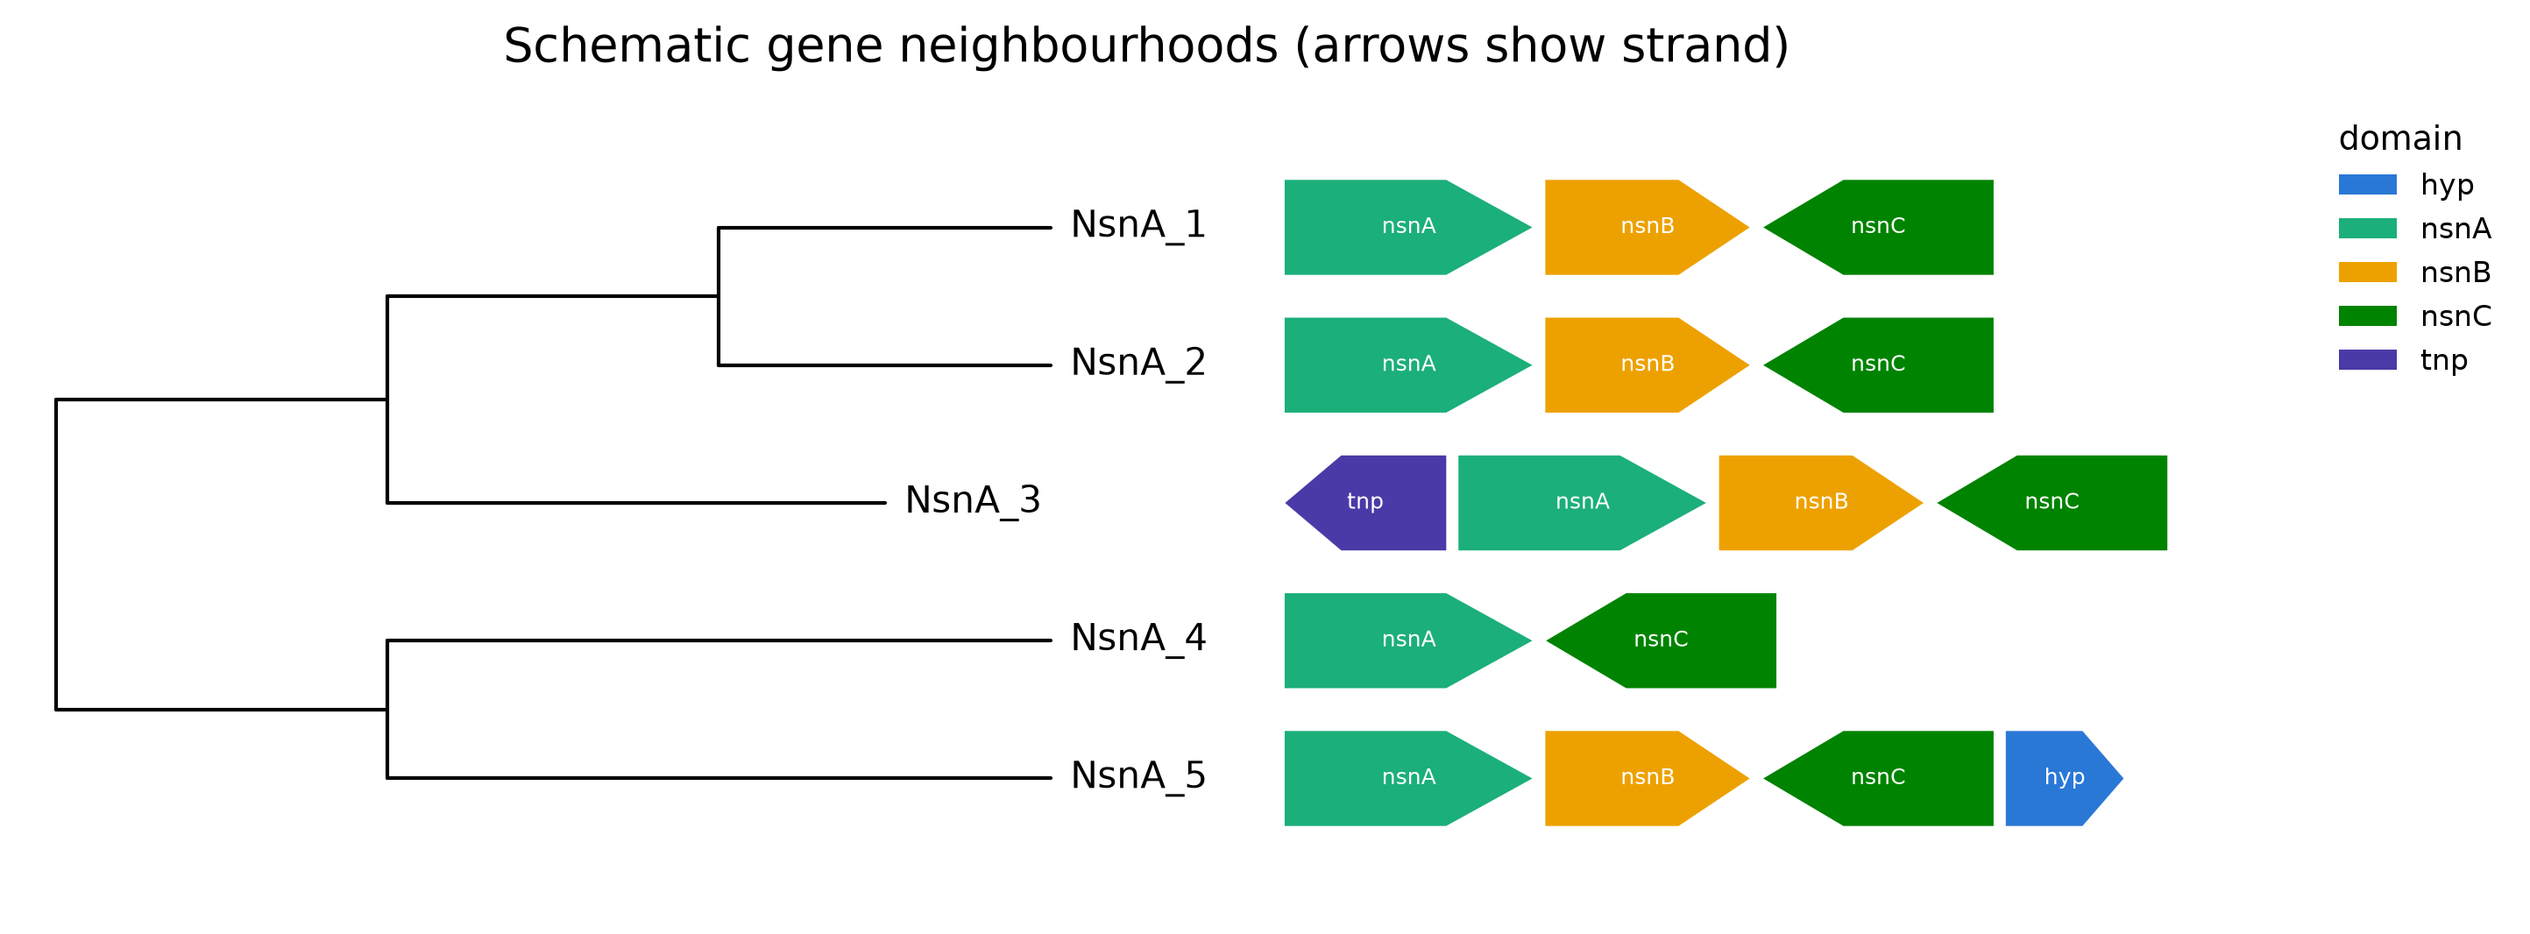
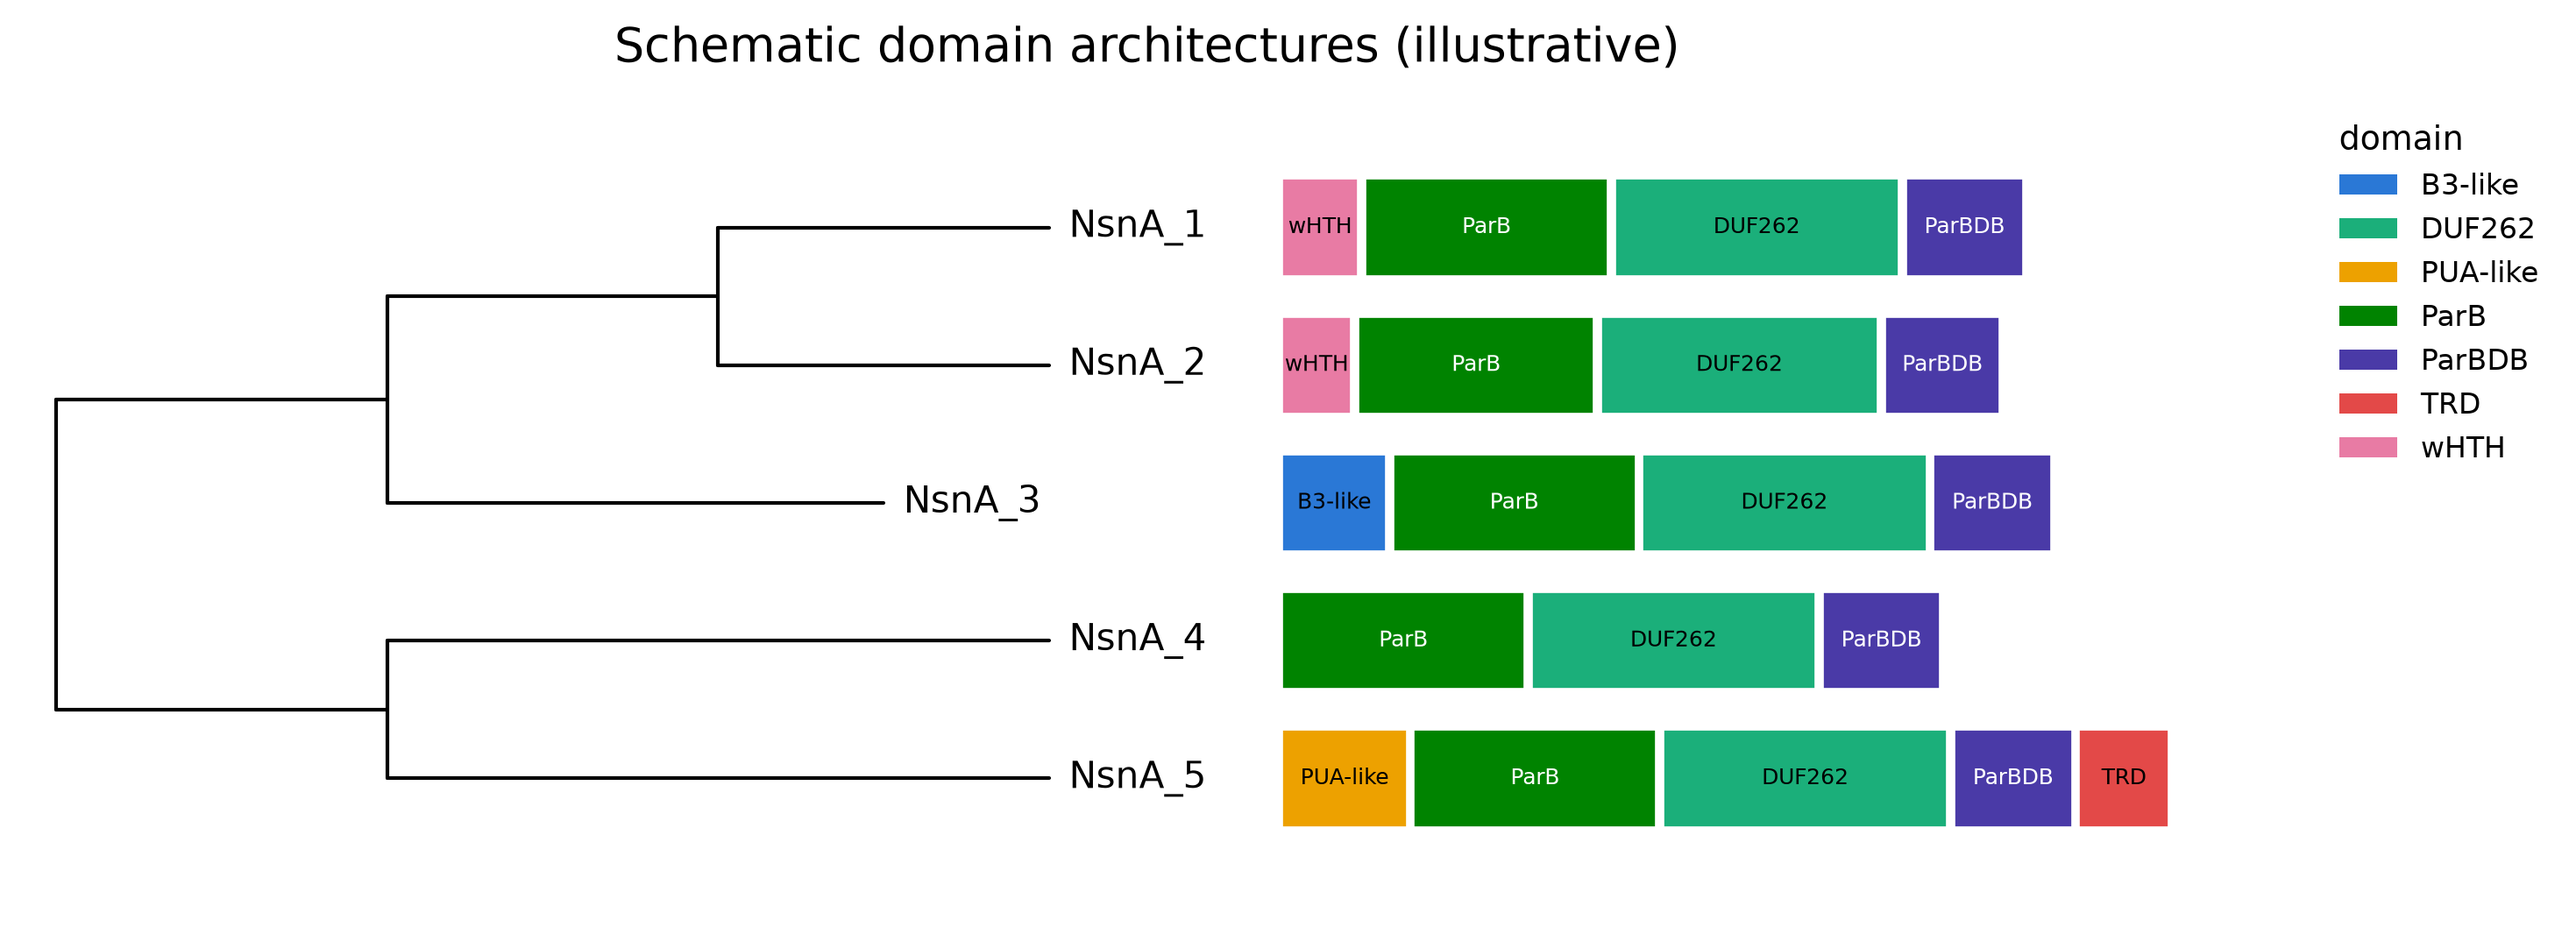
Check every figure for legibility, not just for overlap
Widened the audit from "do two labels collide" to the whole list the user
actually judges a figure by: stacking, distortion, clipping, font size,
stroke weight, and contrast. Ran it across every layout at two tree sizes,
every layer type, every non-tree figure type, and every figure the demos
save. Five more real defects came out.

A dendrogram's leaves run along x, so its width has to follow the tip count.
It was getting the tall, narrow default a rectangular tree wants, which
crushed 106 names into eight inches: 151 collisions, now none.

A ring's name goes in the fan opening, but the first and last sectors each
hang half a sector into that opening, and on a tree with few tips the
sectors swallow it whole -- so the name printed across the ring it named.
It is now drawn only when the free wedge can hold it, and left to the legend
otherwise, which already carries the column name. The threshold is measured
rather than derived, since what has to fit is the name's height in angle and
that falls as the radius grows: it lands on data up to about two degrees of
free wedge and is clear from two and a half. Verified over tip counts 10 to
106 and sizes 6 to 14 pt.

A name inside a coloured block was white whatever the block, which measures
2.2:1 against the paler half of the palette -- below the 3:1 floor for large
text. It now picks black or white by the block's luminance. The first
attempt still measured 3.9:1 on a mid blue, because it compared white
[…]

diff --git a/tests/test_figure_quality.py b/tests/test_figure_quality.py
@@ -1,13 +1,18 @@
 """Do the figures come out publishable?
 
-Not "does it render without raising" -- these check the things a reviewer sees
-first: names printed on top of each other, and text too small to survive the
-journal's downscaling. Overlap is measured off real glyph ink and off
-*oriented* boxes, because a circular tree's labels are rotated and
-matplotlib's window extent for rotated text is the axis-aligned envelope,
-which for a 45-degree label is nearly twice the ink in each direction --
-comparing those envelopes reports collisions between labels that are nowhere
-near each other.
+Not "does it render without raising" -- these check what a reviewer sees
+first: names on top of each other, names on top of the data, text too small
+to survive the journal's downscaling, a circle drawn as an oval, and strokes
+too thin to print.
+
+Two measurement details do most of the work. Overlap is taken off real glyph
+ink rather than the layout box, and off *oriented* boxes -- a circular tree's
+labels are rotated, and matplotlib's window extent for rotated text is the
+axis-aligned envelope, nearly twice the ink in each direction for a
+45-degree label, so comparing envelopes reports collisions between labels
+that are nowhere near each other. And text sitting on a filled shape is not
+by itself a fault, since a clade highlight is drawn behind its labels on
+purpose; what matters is the luminance contrast between the two.
 """
 import math
 
@@ -226,6 +231,109 @@ def test_a_ring_name_is_not_printed_over_the_ring(big):
     on_data = text_on_fill(fig)
     plt.close(fig)
     assert "domain" not in on_data
+
+
+def _luminance(rgb):
+    def lin(c):
+        return c / 12.92 if c <= 0.04045 else ((c + 0.055) / 1.055) ** 2.4
+    r, g, b = (lin(v) for v in rgb[:3])
+    return 0.2126 * r + 0.7152 * g + 0.0722 * b
+
+
+def worst_contrast(fig):
+    """The least readable text-on-fill pairing in the figure, as a ratio."""
+    from matplotlib.colors import to_rgba
+    from matplotlib.path import Path as MPath
+    fig.canvas.draw()
+    worst = 21.0
+    for ax in fig.axes:
+        shapes = []
+        for p in ax.patches:
+            if not (p.get_fill() and p.get_visible()):
+                continue
+            fc = to_rgba(p.get_facecolor())
+            if fc[3] < 0.2:
+                continue
+            try:
+                shapes.append((p.get_path().transformed(p.get_transform()), fc))
+            except Exception:                          # pragma: no cover
+                pass
+        for t in ax.texts:
+            pts = _corners(t, fig) if t.get_visible() else None
+            if not pts:
+                continue
+            box = MPath(pts + [pts[0]], closed=True)
+            tc = to_rgba(t.get_color())
+            for path, fc in shapes:
+                if path.intersects_path(box, filled=True):
+                    lt, lf = _luminance(tc), _luminance(fc)
+                    worst = min(worst, (max(lt, lf) + 0.05) / (min(lt, lf) + 0.05))
+    return worst
+
+
+def test_a_name_inside_a_coloured_block_still_reads():
+    # it used to be white whatever the block, which is 2.2:1 against the paler
+    # half of the palette -- below the 3:1 floor for large text
+    tree = pt.Tree.from_newick("((P1:.1,P2:.1):.1,P3:.2);")
+    arch = {"P1": [("wHTH", 60), ("ParB", 180)],
+            "P2": [("DUF262", 210), ("ParBDB", 90)],
+            "P3": [("TRD", 70), ("PUA", 95)]}
+    fig = pt.TreeFigure(tree).tip_labels().domains(arch, labels=True).draw()
+    worst = worst_contrast(fig)
+    plt.close(fig)
+    assert worst >= 4.5, "least readable block label is %.1f:1" % worst
+
+
+def test_a_round_layout_is_not_drawn_as_an_oval(big):
+    # scaling x and y differently turns a circular tree into an ellipse and
+    # every ring sector into a different shape
+    for layout in ("circular", "circular_slanted", "unrooted"):
+        fig = pt.TreeFigure(big, layout=layout).tip_labels(max_labels=20).draw()
+        for ax in fig.axes:
+            if ax.get_aspect() not in ("equal", 1.0, 1):
+                continue
+            p0 = ax.transData.transform((0.0, 0.0))
+            px = ax.transData.transform((1.0, 0.0))
+            py = ax.transData.transform((0.0, 1.0))
+            sx, sy = abs(px[0] - p0[0]), abs(py[1] - p0[1])
+            assert abs(sx - sy) / max(sx, sy) < 0.01, layout
+        plt.close(fig)
+
+
+def test_no_default_figure_sets_text_too_small_to_print(big):
+    # 5 pt is about the floor that survives a journal reducing a figure to one
+    # column; anything under it is decoration, not information
+    figs = [pt.TreeFigure(big).tip_points(color="phylum").tip_labels()
+            .support_labels().scale_bar().draw(),
+            pt.TreeFigure(big, layout="circular").tip_labels().draw()]
+    for fig in figs:
+        for ax in fig.axes:
+            for t in list(ax.texts) + ([ax.title] if ax.get_title() else []):
+                assert t.get_fontsize() >= 5.0, t.get_text()
+        plt.close(fig)
+
+
+def test_a_dendrogram_grows_sideways_not_downwards(big):
+    # its leaves run along x, so it is the width that has to follow the tip
+    # count -- it was being given the tall, narrow shape a rectangular tree
+    # wants, which crushed 106 names into eight inches
+    fig = pt.TreeFigure(big, layout="dendrogram").tip_labels().draw()
+    w, h = fig.get_size_inches()
+    assert w > h
+    _clean(fig)
+
+
+def test_network_edges_stay_thick_enough_to_print():
+    # edge width carries the similarity, but scaled without a floor the weak
+    # edges reach widths a press cannot hold -- so they fade instead
+    net = pt.SequenceNetwork.from_pairs(
+        [("s%d" % i, "s%d" % (i + 1), 0.05 + 0.15 * i) for i in range(5)])
+    fig = net.draw()
+    for ax in fig.axes:
+        for ln in ax.lines:
+            if ln.get_linestyle() not in ("None", "none", ""):
+                assert ln.get_linewidth() >= 0.3, ln.get_linewidth()
+    plt.close(fig)
 
 
 def test_a_split_network_prints_every_name():

diff --git a/phytreon/plot/elements.py b/phytreon/plot/elements.py
@@ -18,6 +18,41 @@ from ..core.tree import Node
 from ..scene import Label, Marker, Path, Polygon, Raster
 from .figure import _Element, RenderContext, build_color_scale, is_numeric
 
+def readable_on(fill) -> str:
+    """Black or white, whichever actually reads on ``fill``.
+
+    A name printed inside its own coloured block was always white, which is
+    right on a dark block and close to invisible on a pale one -- measured at
+    2.2:1 against some of the palette, where 3:1 is the floor for large text
+    and 4.5:1 for body text. Picking by the background's luminance keeps every
+    block above 4.5:1 whatever colour it lands on.
+    """
+    from matplotlib.colors import to_rgba
+
+    def channel(c):
+        return c / 12.92 if c <= 0.04045 else ((c + 0.055) / 1.055) ** 2.4
+
+    r, g, b, _ = to_rgba(fill)
+    lum = 0.2126 * channel(r) + 0.7152 * channel(g) + 0.0722 * channel(b)
+    # Compare the two inks actually used, not white against an idealised black:
+    # a near-black at #1a1a1a is itself luminous enough to lose a comparison it
+    # appears to win, and the label then comes out at 3.9:1 on a mid blue.
+    # Against true black the worst any fill can force is 4.58:1, at luminance
+    # 0.179 where the two choices cross.
+    return "#ffffff" if 1.05 / (lum + 0.05) >= (lum + 0.05) / 0.05 else "#000000"
+
+
+#: How much of the fan opening a ring's name needs before it is worth drawing.
+#: The name lies along the spoke, so what has to fit is its *height* in angle,
+#: and that falls as the radius grows -- which is why this is measured rather
+#: than derived. Counting collisions against the ring sectors on a 16S tree
+#: while sweeping the tip count: the name lands on data up to about two degrees
+#: of free wedge and is clear from roughly two and a half. Asking for *smaller*
+#: names does not lower it, because a figure drawn with smaller names is itself
+#: smaller by the same rule and the two cancel; asking for larger ones does
+#: raise it. Measured at 6, 8, 10 and 12 pt.
+_RING_NAME_MIN_GAP = math.radians(2.5)
+
 #: above this many tips, per-tip cells are too thin to carry a separator
 #: stroke -- see :class:`_Ring` / :class:`_Heatmap`
 _RING_DENSE_TIPS = 150
@@ -818,9 +853,16 @@ class _Ring(_Element):
                 # The wedge that is really free is narrower than the fan
                 # opening: the first and last sectors each hang half a sector
                 # past their tip, so that much of the opening is already
-                # coloured in at both ends.
+                # coloured in at both ends. On a tree with few tips the sectors
+                # are wide enough to swallow the opening whole, leaving the
+                # name nowhere to stand -- and rather than print it across the
+                # ring it is naming, leave it out. The column already titles
+                # its own legend, so nothing goes unlabelled.
                 free = (2 * math.pi - lay.extent) / 2 - half
-                spread = max(free, 0.0) * 0.5
+                if free <= _RING_NAME_MIN_GAP * max(1.0, self.colname_size / 8.0):
+                    ctx.ring_slot += 1
+                    continue
+                spread = free * 0.5
                 angle = gap_angle + (spread if ctx.ring_slot % 2 else -spread)
                 x, y = lay._polar_to_xy(outer, angle)
                 deg = math.degrees(angle)
@@ -1447,7 +1489,8 @@ class _DomainTrack(_Element):
                                       label=f"{tip.name} | {nm}"))
                 if self.labels and w > 0:
                     ctx.scene.add(Label(cursor + w / 2, tip.y, nm,
-                                        size=self.label_size, color="#ffffff",
+                                        size=self.label_size,
+                                        color=readable_on(scale.color(nm)),
                                         ha="center", va="center", align=True))
                 cursor += abs(ln) * scale_w
         ctx.track_cursor = x0 + total_w

diff --git a/phytreon/plot/splitnet.py b/phytreon/plot/splitnet.py
@@ -171,6 +171,43 @@ def _area(poly: Sequence[XY]) -> float:
     return abs(total) / 2.0
 
 
+def _nudge_apart(pos: Dict[str, XY], least: float,
+                 rounds: int = 20) -> Dict[str, XY]:
+    """Push taxa drawn nearer than ``least`` just far enough to both be seen.
+
+    Two taxa a gene cannot separate belong at the same point, and the network
+    is right to put them there -- but one marker then hides the other, and a
+    reader counts one taxon where there are two. The nudge is a fraction of the
+    figure's own width, on the order of the marker it is keeping visible, so it
+    cannot be misread as a distance: nothing is legible at that scale anyway.
+    """
+    names = list(pos)
+    if len(names) < 2 or least <= 0:
+        return pos
+    out = {nm: list(xy) for nm, xy in pos.items()}
+    for _ in range(rounds):
+        moved = False
+        for i, a in enumerate(names):
+            for b in names[i + 1:]:
+                ax, ay = out[a]
+                bx, by = out[b]
+                dx, dy = bx - ax, by - ay
+                gap = math.hypot(dx, dy)
+                if gap >= least:
+                    continue
+                if gap < 1e-12:            # exactly coincident: pick a way
+                    ang = 2 * math.pi * (hash((a, b)) % 360) / 360.0
+                    dx, dy, gap = math.cos(ang), math.sin(ang), 1.0
+                push = (least - gap) / 2.0
+                ux, uy = dx / gap, dy / gap
+                out[a] = [ax - ux * push, ay - uy * push]
+                out[b] = [bx + ux * push, by + uy * push]
+                moved = True
+        if not moved:
+            break
+    return {nm: (xy[0], xy[1]) for nm, xy in out.items()}
+
+
 def _compatible_core(names, splits) -> List[frozenset]:
     """The strongest splits that all fit on one tree, heaviest first."""
     universe = frozenset(names)
@@ -930,7 +967,7 @@ class SplitNetwork(_Renderable):
                 for k, nm in enumerate(members):
                     a = first + step * k
                     pos[nm] = (vx + r * math.cos(a), vy + r * math.sin(a))
-            self._pos = pos
+            self._pos = _nudge_apart(pos, 0.025 * span)
         return self._pos
 
     def _ring_anchors(self, coords, pos) -> Optional[Dict[str, XY]]:

diff --git a/phytreon/plot/network.py b/phytreon/plot/network.py
@@ -35,6 +35,12 @@ from .figure import RenderContext, _Renderable, build_color_scale
 
 XY = Tuple[float, float]
 
+#: Thinnest stroke worth drawing, in points. Journals reproduce a quarter-point
+#: rule unreliably and anything under it not at all, so a width scaled by data
+#: is floored here and the fading is done with opacity instead.
+_MIN_STROKE = 0.3
+
+
 
 class _NetworkLayout:
     """Layout shim so a network scene can drive the ordinary backends."""
@@ -345,9 +351,14 @@ class SequenceNetwork(_Renderable):
 
         for i, j, w in self.edges:
             if self.weight_edges:
-                # a stronger hit reads as a firmer line
+                # A stronger hit reads as a firmer line -- but never thinner
+                # than a press can hold. Below about a quarter point a rule
+                # drops out of a printed figure altogether, so scaling weak
+                # edges down without a floor deletes exactly the edges the
+                # cutoff was chosen to keep. Fade them instead: opacity
+                # survives the press where width does not.
                 frac = (w - wmin) / wspan
-                width = self.edge_width * (0.6 + 0.9 * frac)
+                width = max(self.edge_width * (0.6 + 0.9 * frac), _MIN_STROKE)
                 alpha = self.edge_alpha * (0.45 + 0.55 * frac)
             else:
                 width, alpha = self.edge_width, self.edge_alpha

diff --git a/phytreon/plot/backends.py b/phytreon/plot/backends.py
@@ -70,8 +70,18 @@ def render_mpl(ctx: RenderContext, title: Optional[str] = None,
 
     if ax is None:
         if figsize is None:
-            figsize = (_round_figsize(ctx) if equal
-                       else (8, max(2.6, min(0.34 * n, 30))))
+            rows = max(2.6, min(0.34 * n, 30))
+            if equal:
+                figsize = _round_figsize(ctx)
+            elif getattr(ctx.layout, "kind", "rect") == "dendrogram":
+                # a dendrogram is a rectangular tree with its axes swapped:
+                # the leaves run along x and the names hang below them, so it
+                # is the *width* that has to grow with the tip count. Giving it
+                # the tall-and-narrow shape a rectangular tree wants crushed
+                # 106 leaves into eight inches of width.
+                figsize = (rows, 8)
+            else:
+                figsize = (8, rows)
         fig, ax = plt.subplots(figsize=figsize)
     else:
         fig = ax.figure

diff --git a/CHANGELOG.md b/CHANGELOG.md
@@ -29,9 +29,33 @@ All notable changes to phytreon are documented here. Format loosely follows
   - Ring names run along the spoke rather than across it. Across the spoke a
     name takes up its own width in angle, which is more than the fan opening
     leaves, so it printed itself over the ring it was naming.
+- **A dendrogram now grows sideways.** Its leaves run along x, so the *width*
+  has to follow the tip count; it was being given the tall, narrow default a
+  rectangular tree wants, which crushed 106 names into eight inches — **151
+  collisions, now none**.
+- **A ring's name is only drawn when there is room for it.** It goes in the fan
+  opening, but the first and last sectors each hang half a sector into that
+  opening, and on a tree with few tips the sectors swallow it whole. Rather
+  than print the name across the ring it is naming, it is now left to the
+  legend, which already carries the column name. Measured over tip counts 10 to
+  106 and sizes 6 to 14 pt: no name lands on data anywhere.
+- **A name inside a coloured block picks its own ink.** It was white whatever
+  the block, which measures 2.2:1 against the paler half of the palette, below
+  the 3:1 floor for large text. Choosing black or white by the block's
+  luminance guarantees at least 4.58:1.
+- **Network edges never go thinner than 0.3 pt.** Width carries the similarity,
+  but scaled without a floor the weak edges reached 0.26 pt — below what a
+  press reproduces, so the cutoff's weakest edges vanished from print. They
+  fade with opacity instead.
+- **Taxa a gene cannot separate no longer hide each other** in a split network:
+  markers drawn closer than a marker's width are nudged just far enough apart
+  to both be seen.
 - New `tests/test_figure_quality.py` holds all of this as regression tests: a
-  106-taxon tree drawn rectangular, circular, circular with a ring, and as a
-  tanglegram must print every name without a single collision.
+  106-taxon tree drawn rectangular, circular, circular with a ring, as a
+  dendrogram and as a tanglegram must print every name without a single
+  collision; a round layout must not be scaled into an oval; no default figure
+  may set text under 5 pt; a block label must reach 4.5:1 contrast; network
+  edges must stay printable.
 
 ### Added
 - **Sequence-similarity networks** (`SequenceNetwork`) -- the CLANS-style
